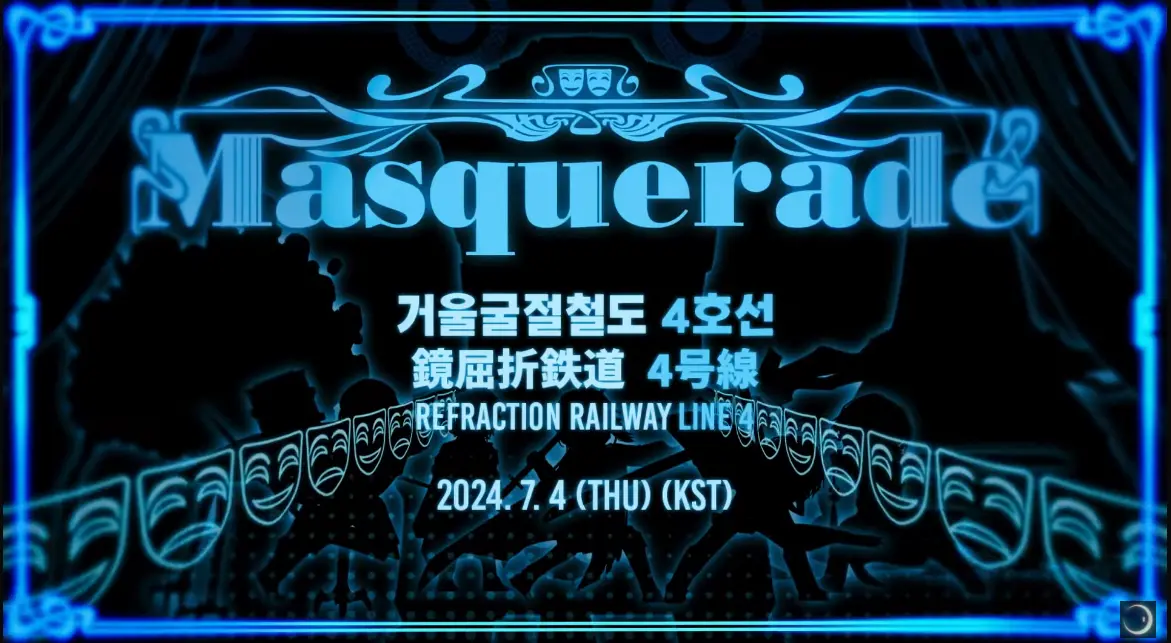
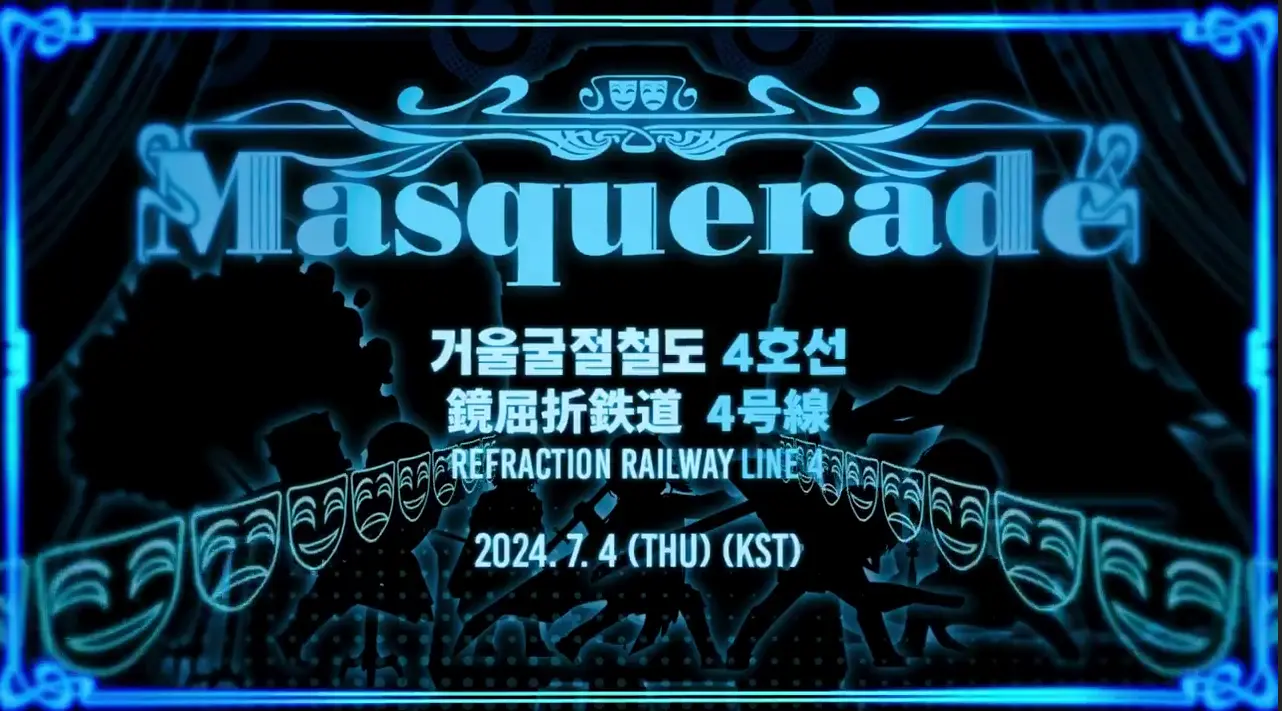
Updates

diff --git a/index.html b/index.html
@@ -1,1 +1,1 @@
-<!doctype html><html lang="ru"><head><meta name="yandex-verification" content="9bc92d1da18ab2f7"/><meta charset="utf-8"/><link rel="icon" href="/GLL.png"/><link rel="sitemap" type="application/xml" href="/sitemap-index.xml"><meta name="viewport" content="width=device-width,initial-scale=1"/><meta name="theme-color" content="#000000"/><link rel="manifest" href="/manifest.json"/><meta name="keywords" content="GLL, GreatLimbusLibrary, Limbus, Wiki, Database, Great Limbus Library, Limbus Company, Gacha, Tier List, Лимбус, Тир лист, Faust, Don Quixote, Yi Sang, Ryoshu, Mersault, Hong Lu, HeathClif, Ishmael, Rodion, Sinclair, Outis, Gregor, Тирлист, Гача, Лимбус Компани, Персонажи, Гайды, Ивенты, Новости, Фансайт, ЭГО, Индентичности, Грешинки, Ультимейты, Пассивки, Статусы, Тимбилдер, Сравнение, Команда, Отряд, ГЛЛ, Сайт по Лимбус, Лимбус Сайт, Сайт лимбус компани, Сайт Limbus, Сайт по Limbus, Сайт Limbus Company, Вики, Википедия, лимбус компани, тир лист лимбус компани, лимбус компани тир лист, лимбус компании русификатор, лимбус вики, русификатор лимбус компании, лимбус пресс, лимбус компании тирлист, дон кихот лимбус, лимбус тир лист, грехи лимбус компани, лимбус библиотека, гифты, мирорданж, зеркалька, мирорка, лимбус компании, хентай лимбус, лимбус компании хентай, дон кихот лимбус компании, экстремальный фандом по лимбусу, лимбус компании арты, порно арт лимбус компании, грегор лимбус компании, кромер лимбус, лимбус вики, лимбус компании порно, хентай лимбус компании, лимбус вертебра, синклер лимбус, порно лимбус компании, хентай по лимбус компании, лимбус пресс издательство, лимбус компании r34, лимбус компании аномалии, лимбус компании все эго гифты, родион лимбус компании, отис лимбус компании, решу лимбус, лимбус тазобедренного сустава, фауст лимбус, хентай арты лимбус компании, лимбус компании вк, лимбус компании личности, лимбус компании телеграм, измаил лимбус, издательство лимбус пресс, фауст лимбус компании, данте лимбус компании, лимбус позвонка это, лимбус компании реддит, грешники лимбус, лимбус это медицина, лимбус позвонка, хитклифф лимбус, лимбус персонажи, и сан лимбус, вергилий лимбус, лимбус вертебра что это, лимбус русификатор, грешники лимбус компании, лимбус пресс вк, издательство лимбус пресс официальный сайт, русификатор на лимбус компании, секс лимбус компании, русификатор для лимбус компании, синклер лимбус компании, лимбус компании rule 34, скачать лимбус компании, лимбус компании скачать, мерсо лимбус, измаил лимбус компании, лимбус компании грешники, великая библиотека лимбус, как лечить лимбус, данте лимбус, кромер лимбус компании, фанфики лимбус компании, лимбус компании арт, лимбус компании rule34, лимбус библиотека, лимбус компании джойреактор, лимбус компании 5-30, лимбус компании команды, лимбус компони rule 34, лимбус компании зеркальное подземелье, тир лист идентичностей лимбус, аномалии лимбус компании, лимбус тирлист, лимбус компании персы, рикардо лимбус, лимбус компони rule34, лимбус компании скачать на пк, порно лимбус компании, лимбус компании перевод, лимбус мирорка, лимбос эго гифты, эго, гифты, зеркальное подземелье, лимбус перевод гифтов, лимбус тимбилдер, лимбус пассивки, лимбус эго дары, лимбус ивенты, лимбус события."/><meta name="description" content="Great Limbus Library - это фан-сайт и база данных, созданная сообществом, посвященная игре компании Limbus. Руководства, личные данные, эго, новости, события, списки уровней и Тимбилдер."/><title>Great Limbus Library</title><script type="text/javascript">!function(n){if("/"===n.search[1]){var a=n.search.slice(1).split("&").map((function(n){return n.replace(/~and~/g,"&")})).join("?");window.history.replaceState(null,null,n.pathname.slice(0,-1)+a+n.hash)}}(window.location)</script><script defer="defer" src="/static/js/main.3063083c.js"></script><link href="/static/css/main.8d30bee1.css" rel="stylesheet"></head><body><noscript>You need to enable JavaScript to run this app.</noscript><div id="root"></div></body></html>
+<!doctype html><html lang="ru"><head><meta name="yandex-verification" content="9bc92d1da18ab2f7"/><meta charset="utf-8"/><link rel="icon" href="/GLL.png"/><link rel="sitemap" type="application/xml" href="/sitemap-index.xml"><meta name="viewport" content="width=device-width,initial-scale=1"/><meta name="theme-color" content="#000000"/><link rel="manifest" href="/manifest.json"/><meta name="keywords" content="GLL, GreatLimbusLibrary, Limbus, Wiki, Database, Great Limbus Library, Limbus Company, Gacha, Tier List, Лимбус, Тир лист, Faust, Don Quixote, Yi Sang, Ryoshu, Mersault, Hong Lu, HeathClif, Ishmael, Rodion, Sinclair, Outis, Gregor, Тирлист, Гача, Лимбус Компани, Персонажи, Гайды, Ивенты, Новости, Фансайт, ЭГО, Индентичности, Грешинки, Ультимейты, Пассивки, Статусы, Тимбилдер, Сравнение, Команда, Отряд, ГЛЛ, Сайт по Лимбус, Лимбус Сайт, Сайт лимбус компани, Сайт Limbus, Сайт по Limbus, Сайт Limbus Company, Вики, Википедия, лимбус компани, тир лист лимбус компани, лимбус компани тир лист, лимбус компании русификатор, лимбус вики, русификатор лимбус компании, лимбус пресс, лимбус компании тирлист, дон кихот лимбус, лимбус тир лист, грехи лимбус компани, лимбус библиотека, гифты, мирорданж, зеркалька, мирорка, лимбус компании, хентай лимбус, лимбус компании хентай, дон кихот лимбус компании, экстремальный фандом по лимбусу, лимбус компании арты, порно арт лимбус компании, грегор лимбус компании, кромер лимбус, лимбус вики, лимбус компании порно, хентай лимбус компании, лимбус вертебра, синклер лимбус, порно лимбус компании, хентай по лимбус компании, лимбус пресс издательство, лимбус компании r34, лимбус компании аномалии, лимбус компании все эго гифты, родион лимбус компании, отис лимбус компании, решу лимбус, лимбус тазобедренного сустава, фауст лимбус, хентай арты лимбус компании, лимбус компании вк, лимбус компании личности, лимбус компании телеграм, измаил лимбус, издательство лимбус пресс, фауст лимбус компании, данте лимбус компании, лимбус позвонка это, лимбус компании реддит, грешники лимбус, лимбус это медицина, лимбус позвонка, хитклифф лимбус, лимбус персонажи, и сан лимбус, вергилий лимбус, лимбус вертебра что это, лимбус русификатор, грешники лимбус компании, лимбус пресс вк, издательство лимбус пресс официальный сайт, русификатор на лимбус компании, секс лимбус компании, русификатор для лимбус компании, синклер лимбус компании, лимбус компании rule 34, скачать лимбус компании, лимбус компании скачать, мерсо лимбус, измаил лимбус компании, лимбус компании грешники, великая библиотека лимбус, как лечить лимбус, данте лимбус, кромер лимбус компании, фанфики лимбус компании, лимбус компании арт, лимбус компании rule34, лимбус библиотека, лимбус компании джойреактор, лимбус компании 5-30, лимбус компании команды, лимбус компони rule 34, лимбус компании зеркальное подземелье, тир лист идентичностей лимбус, аномалии лимбус компании, лимбус тирлист, лимбус компании персы, рикардо лимбус, лимбус компони rule34, лимбус компании скачать на пк, порно лимбус компании, лимбус компании перевод, лимбус мирорка, лимбос эго гифты, эго, гифты, зеркальное подземелье, лимбус перевод гифтов, лимбус тимбилдер, лимбус пассивки, лимбус эго дары, лимбус ивенты, лимбус события."/><meta name="description" content="Great Limbus Library - это фан-сайт и база данных, созданная сообществом, посвященная игре компании Limbus. Руководства, личные данные, эго, новости, события, списки уровней и Тимбилдер."/><title>Great Limbus Library</title><script type="text/javascript">!function(n){if("/"===n.search[1]){var a=n.search.slice(1).split("&").map((function(n){return n.replace(/~and~/g,"&")})).join("?");window.history.replaceState(null,null,n.pathname.slice(0,-1)+a+n.hash)}}(window.location)</script><script defer="defer" src="/static/js/main.dd56eb4a.js"></script><link href="/static/css/main.8d30bee1.css" rel="stylesheet"></head><body><noscript>You need to enable JavaScript to run this app.</noscript><div id="root"></div></body></html>